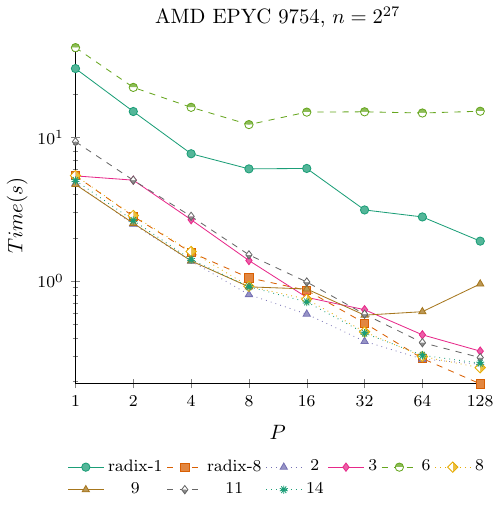
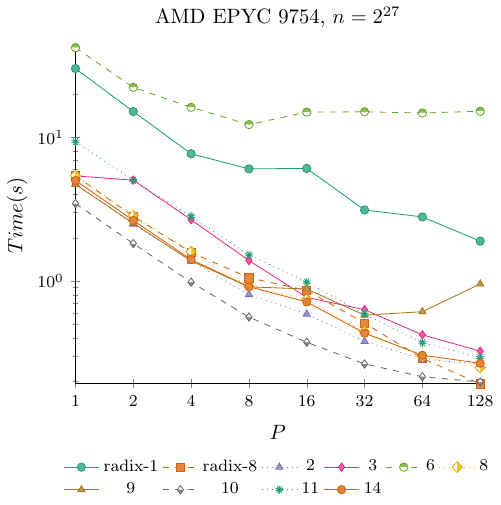
Results for round 3

diff --git a/exercise_sheet_3_5_results/tex/plot.tex b/exercise_sheet_3_5_results/tex/plot.tex
@@ -55,7 +55,7 @@
             xmode=log, log basis x=2,
             ymode=log, % log basis y=2,
             xticklabels={1,2,4,8,16,32,64,128}]
-        \pgfplotsinvokeforeach{radix-1,radix-8,2,3,6,8,9,11,14}{
+        \pgfplotsinvokeforeach{radix-1,radix-8,2,3,6,8,9,10,11,14}{
             \addplot+[] table[x=IDP,y=#1]{\TransposedData};
             \addlegendentry{#1}
         }

diff --git a/exercise_sheet_3_5_results/README.md b/exercise_sheet_3_5_results/README.md
@@ -13,7 +13,7 @@ The first table gives the absolute running times in seconds. Having the lowest v
 | 6 | 42.3461 | 22.3697 | 16.2475 | 12.3142 | 15.0417 | 15.1193 | 14.8308 | 15.2567 |
 | 8 | 5.4337 | 2.8600 | 1.6059 | 0.9192 | 0.7470 | 0.4424 | 0.2977 | 0.2486 |
 | 9 | 4.7100 | 2.5261 | 1.3818 | 0.9104 | 0.8800 | 0.5781 | 0.6112 | 0.9540 |
-| 10 | - | - | - | - | - | - | - | - |
+| 10 | 3.4664 | 1.8253 | 0.9816 | 0.5604 | 0.3743 | 0.2641 | 0.2151 | 0.1978 |
 | 11 | 9.3529 | 5.0423 | 2.8232 | 1.5215 | 0.9841 | 0.5872 | 0.3717 | 0.2924 |
 | 14 | 5.0193 | 2.6419 | 1.4109 | 0.9121 | 0.7147 | 0.4328 | 0.3037 | 0.2672 |
 | radix-8 | 5.4198 | 2.8244 | 1.5820 | 1.0528 | 0.8611 | 0.5088 | 0.2883 | 0.1919 |
@@ -30,7 +30,7 @@ The next table gives the relative speedup $T_1 / T_p$ computed individually for 
 | 6 | 1.0000 | 1.8930 | 2.6063 | 3.4388 | 2.8152 | 2.8008 | 2.8553 | 2.7756 |
 | 8 | 1.0000 | 1.8999 | 3.3836 | 5.9113 | 7.2740 | 12.2823 | 18.2523 | 21.8572 |
 | 9 | 1.0000 | 1.8645 | 3.4086 | 5.1736 | 5.3523 | 8.1474 | 7.7062 | 4.9371 |
-| 10 | - | - | - | - | - | - | - | - |
+| 10 | 1.0000 | 1.8991 | 3.5314 | 6.1856 | 9.2610 | 13.1253 | 16.1153 | 17.5248 |
 | 11 | 1.0000 | 1.8549 | 3.3129 | 6.1472 | 9.5040 | 15.9280 | 25.1625 | 31.9867 |
 | 14 | 1.0000 | 1.8999 | 3.5575 | 5.5030 | 7.0229 | 11.5973 | 16.5272 | 18.7848 |
 | radix-8 | 1.0000 | 1.9189 | 3.4259 | 5.1480 | 6.2940 | 10.6521 | 18.7992 | 28.2428 |
@@ -38,20 +38,20 @@ The next table gives the relative speedup $T_1 / T_p$ computed individually for 
 
 ## Points Scored
 
-Here are the preliminary points scored for this exercise (awaiting nr. 10).
+Here are the points scored for this exercise.
 
 | ID | Points | Time |
 | -: | -: | -: |
 | radix-8 | 20 | 0.1919 |
-| 8 | 19 | 0.2486 |
-| 2 | 18 | 0.2630 |
-| 14 | 17 | 0.2672 |
-| 11 | 16 | 0.2924 |
-| 3 | 15 | 0.3245 |
-| 9 | 14 | 0.9540 |
-| radix-1 | 13 | 1.8968 |
-| 6 | 12 | 15.2567 |
-| 10 | 11 | - |
+| 10 | 19 | 0.1978 |
+| 8 | 18 | 0.2486 |
+| 2 | 17 | 0.2630 |
+| 14 | 16 | 0.2672 |
+| 11 | 15 | 0.2924 |
+| 3 | 14 | 0.3245 |
+| 9 | 13 | 0.9540 |
+| radix-1 | 12 | 1.8968 |
+| 6 | 11 | 15.2567 |
 
 ## Radix Sort
 

diff --git a/README.md b/README.md
@@ -10,18 +10,18 @@ To know your team's ID, check the feedback on Moodle.
 
 | ID | Points |
 | -: | -: |
-| 10 | 29 |
-| 9 | 27 |
+| 10 | 48 |
+| imp | 43.5 |
+| 9 | 40 |
+| 14 | 38 |
+| 2 | 37.5 |
+| 8 | 37.5 |
+| 11 | 36.5 |
+| 3 | 31.5 |
+| 6 | 29.5 |
 | 13 | 25.5 |
-| imp | 23.5 |
-| 14 | 22 |
-| 11 | 21.5 |
-| 2 | 20.5 |
-| 8 | 19.5 |
-| 6 | 18.5 |
-| 3 | 17.5 |
+| ref | 25 |
 | 7 | 17 |
-| ref | 13 |
 | 4 | 6 |
 | 12 | 5.5 |
 | 5 | 5 |
